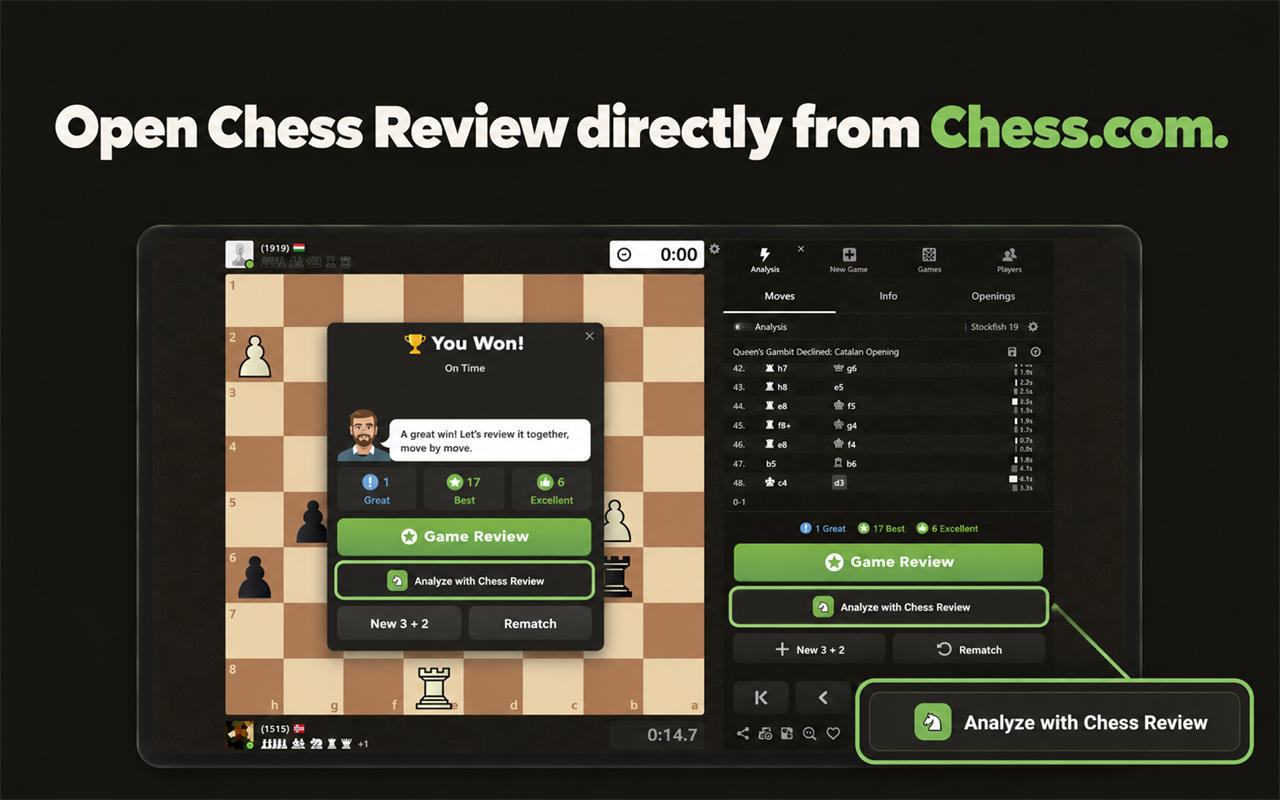
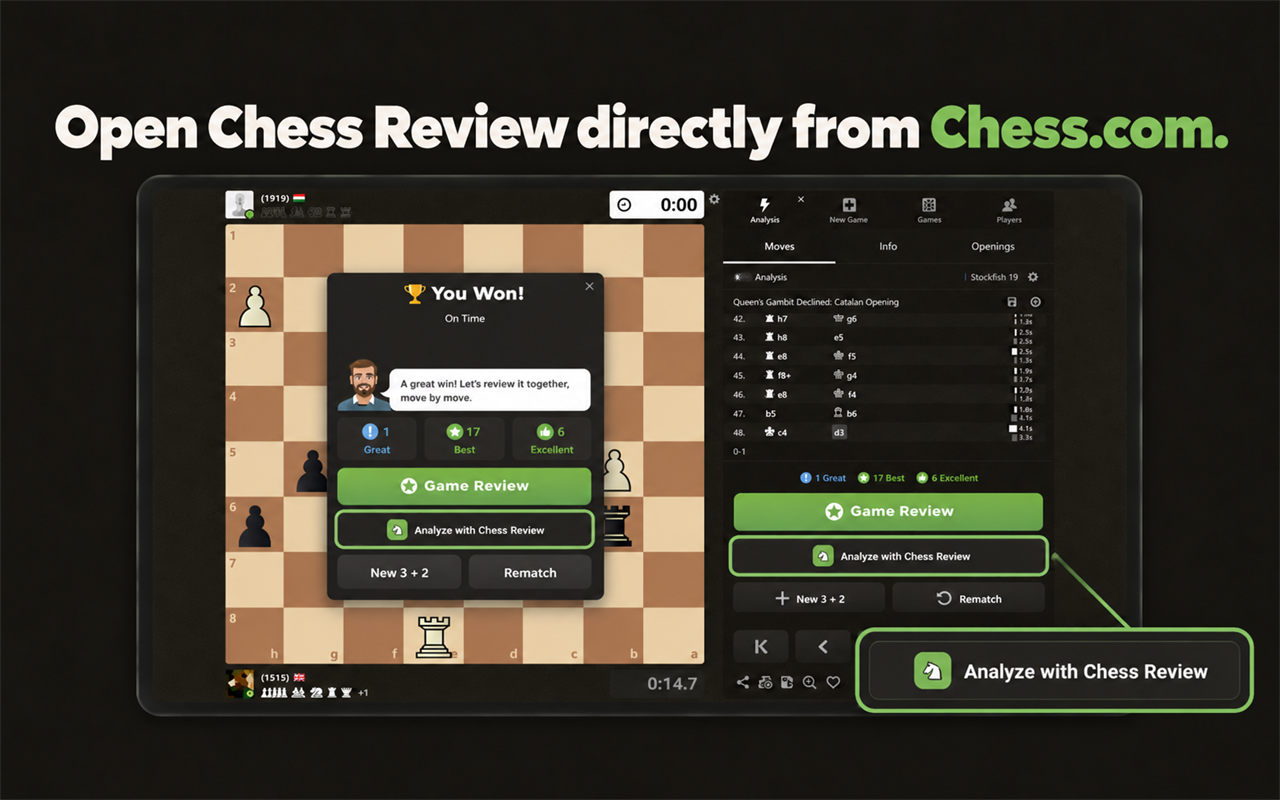
marketing: tighten spacing above store image frames
Move the product groups closer to the existing headlines in five v2 images while preserving the Accuracy and move quality image.

diff --git a/marketing/chrome-web-store/Marketing images v2/README.md b/marketing/chrome-web-store/Marketing images v2/README.md
@@ -77,3 +77,83 @@ Accuracy headline is centered at approximately y67–123. Displayed accuracy val
 Although preservation was explicit in the prompts, generated UI is not guaranteed pixel-identical to the source. Minor raster texture, antialiasing and small type rendering changes are visible, especially puzzle board shading and tiny labels. Final resampling also changes pixels. Background and headline colors are visual matches to the reference rather than guaranteed uniform exact RGB fills.
 
 No staging or commits performed by this subagent; root agent handles the cohesive task commit.
+
+## Layout follow-up: reduce headline-to-product gaps
+
[1 lines of base64/hex data omitted]
+
+| Export | Previous group top | Revised group top | Approximate upward move |
+| --- | --- | --- | --- |
+| whole-game-review.png | 230 px | 175 px | 55 px |
+| chess-com-one-click-review.png | 225 px | 175 px | 50 px |
+| lichess-one-click-review.png | 225 px | 175 px | 50 px |
+| ten-chess-coaches.png | 208 px | 183 px | 25 px |
+| fifty-thousand-chess-puzzles.png | 221 px | 179 px | 42 px |
+
+Reviewed all five final images visually, verified all six exports decode at 1280 x 800, and checked the overview board after removing an extra selected-square highlight introduced during editing. Exact coordinates and fine raster details can vary with imagegen. Original source images remain unchanged.
+
+### Layout edit prompts and method
+
+### Overview/coaches layout revision
+
+Method: inspected both approved v2 files, then used built-in image_gen edits only. First pass overshot upward (overview top ~164, grid ~155). One targeted correction per file was approved by root. Selected tool outputs were 1586x992; System.Drawing HighQualityBicubic normalized final export only to 1280x800. Replaced only whole-game-review.png and ten-chess-coaches.png. No staging/commits. Sources remain in previous Git commit.
+
+Review: final exports inspected with view_image. Overview frame top ~175, bottom ~707; coaches grid top ~183, bottom ~648. Headline positions/colors/type visually unchanged. Requested targets were ~185/~173, so final translations are approximate (overview ~55px up; coaches ~25px up). All ten name labels remain correct; full board/frame and 2x5 grid preserved. Imagegen can produce small face/UI/text detail drift and does not guarantee pixel-identical rigid translation. Existing backdrop remains visually consistent.
+
+## Exact prompts
+
+### Overview initial
+Use case: precise-object-edit. Edit the supplied current approved marketing image. Final 1280x800. Perform ONLY a layout translation: move the ENTIRE main rounded rectangular product screenshot group UPWARD by exactly 45 px, from its current top edge y230 to top edge y185, current bottom y762 to y717. Preserve its x position, width and height exactly (left x131, right x1148), no scaling, no cropping, no redesign. Treat every pixel inside this rounded screenshot frame as one locked group: preserve all chess pieces and board position, arrow, coach illustration, texts, stats, charts, icons, button controls and borders with their same internal relative positions. Keep the headline 'Your whole game, reviewed in one view' EXACTLY unchanged in its current location, font, letter sizes, alignment and white/green colors. Do not move the headline. Preserve the existing warm near-black charcoal subtly textured backdrop throughout. Seamlessly fill only the newly exposed bottom region with that same background. No additional text, branding or new elements. The sole requested change is rigidly translating the existing screenshot box 45px upward to reduce the gap below the headline. Preserve all original visual details rather than redraw.
+
+### Coaches initial
+Use case: precise-object-edit. Edit supplied current approved coaches marketing image, final 1280x800. Perform ONLY a layout translation: move ENTIRE 2-row by 5-column grid of ten coach cards UPWARD by exactly 35px, from current top y208 to target top y173, current grid bottom y673 to y638. Treat all ten cards and spaces between them as one locked group; preserve x positions, original widths and heights, inter-card spacing and internal relative positions; do NOT scale, crop, redraw or redesign. Preserve every illustration detail, accessory, face, clothing, green rounded card border, and all exact name labels: Old Soviet, Professor, Chess Hustler, Wise Grandma, Drunk Uncle, Conspiracy Theorist, Kid Prodigy, Ralph, Julie, Nature Documentarian. Keep the headline 'Choose between 10 different coaches' EXACTLY unchanged in its existing position, heavy geometric font, letter sizes, alignment, off-white color and green 10. Do not move headline. Preserve warm charcoal subtly textured backdrop; seamlessly fill newly exposed lower region with that same backdrop. No additional text, subtitles, branding or new elements. Sole change is rigidly translating existing complete two-row card grid 35px upward to reduce gap beneath headline.
+
+### Overview correction
+Precise-object-edit, 1280x800. Make one small correction to THIS image: move the existing complete rounded screenshot box DOWNWARD by 21px, keeping x position and size identical. Its top edge currently y164; corrected top MUST be y185, bottom y717, left x131 right1148. This creates roughly 30px of clear background below the headline descenders and above the frame. Do NOT move headline or change any text/style/color. Keep headline 'Your whole game, reviewed in one view' exactly fixed, all letter positions preserved. The screenshot including everything inside it is a locked rigid group, translate only: preserve chessboard/pieces/arrow, coach, stats, engine text, controls and borders. Fill exposed top strip seamlessly with existing background and keep entire warm charcoal backdrop identical. No scaling, no cropping, no redesign, no added elements. Only change: shift screenshot group 21px DOWN from current version.
+
+### Coaches correction
+Precise-object-edit, final1280x800. Make ONE small layout correction to THIS image: move entire existing 2-row by 5-column coaches card grid DOWNWARD by 18px. Current top edge y155 must become y173; bottom y620 becomes y638. Keep all original x positions, widths, heights, spaces and relative positions unchanged. This leaves about30px blank background below headline and above card borders. Headline 'Choose between 10 different coaches' must stay EXACTLY fixed in current location, letter sizes/typography/colors/alignment unchanged. The ten cards are a locked rigid group: translate only, do not redraw any faces, clothing, accessories, illustrations, borders or name labels. Keep all ten exact names. Seamlessly fill newly exposed thin top strip with identical existing warm charcoal subtle texture. No scaling, no cropping, no redesign, no extra text or branding. Sole requested change is moving this existing complete grid 18px DOWNWARD.
+
+## Final board correction
+Root requested removing extra b1 yellow highlight while retaining d2 knight/selected-square/badge. Reload confirmed d2 knight had remained present. One built-in imagegen correction used current moved-layout overview as edit target plus original1(1) as board-content-only reference. Corrected b1 to an ordinary unselected light board square (matching checkerboard parity); preserved white knight on yellow d2 and4.1 badge. Final overview was export-normalized to1280x800 and inspected; full piece placement checked against original. Top frame remains ~175. Coaches unchanged.
+
+Exact correction prompt:
+Precise-object-edit. Image1 is CURRENT EDIT TARGET at1280x800; Image2 is BOARD CONTENT REFERENCE ONLY, not layout/branding reference. Make ONE tiny correction on Image1 chessboard: erroneous bright yellow EMPTY b1 square, bottom row second square from left, x306–363 y613–670, must become ordinary medium brown exactly like other dark squares and like b1 in Image2. Keep b1 EMPTY. IMPORTANT preserve WHITE KNIGHT on d2 exactly, at fourth column from left/second row from bottom x422–479 y555–613, and preserve d2 YELLOW selected square and nearby yellow4.1 rating badge. Final sole yellow highlighted board square must be d2, under white knight. Every piece must match Image2: black Ra8 Rh8 Qd8 Ke8 Nd7 Nf6 Bd6, black pawns a7 b7 c7 f7 g7 e6 g6 d5; white Ra1 Rh1 Qd1 Ke1 Nd2 Bd3 Bg3, white pawns a2 b2 c2 f2 g2 h2 d4 e3. Preserve all other board squares/pieces, arrow, UI, coach, labels and all entire screenshot and header content unchanged. Keep Image1 current frame top y175, fixed headline position/type/colors, screenshot size/x position, backdrop. Never copy source Image2 branding, subtitle or layout. Do not move or resize anything. Only repaint b1 normal brown, keeping source-correct knight d2 on yellow and4.1 badge.
+
+
+### Entry-point frame spacing adjustment
+
+Method: built-in image_gen raster editing, supplied current v2 image as sole edit target, inspected before editing. Only final native-output-to-1280x800 normalization used System.Drawing high-quality bicubic resampling. Both selected native outputs were 1586x992. No CLI/API fallback, Python, content transforms, source-original changes, staging, commits, or shared README edits.
+
+Updated existing outputs:
+- chess-com-one-click-review.png
+- lichess-one-click-review.png
+
+Review: both final PNGs visually inspected at 1280x800. Frame tops now approximately y175 (previously y225), moving entire assembly about 50 px upward. This is about 10 px farther upward than the requested approximate y185 target. Headline locations, exact wording, sizes and colors appear preserved. Visible gap from lowest headline glyphs to frame is now about 12–20 px, instead of about 65–75 px. Frame width and height, screenshot/callout arrangement, chess positions, and internal logos remain visually consistent. New bottom area is seamlessly filled with existing warm charcoal background. Imagegen resynthesizes raster content, so tiny UI text/pixels are not guaranteed bit-identical.
+
+Chess.com first generation was rejected because it shifted headline and put frame around y161. One targeted retry corrected headline and yielded selected y175 layout. Lichess needed one generation. No additional retries.
+
+Selected Chess.com exact prompt:
+Precise minimal layout edit of the supplied 1280×800 raster. Use supplied image as actual EDIT TARGET. LOCK THE TOP 180 PIXELS: headline and background from y0 through y179 must remain EXACTLY as input, same coordinates, glyph shapes, type size, colors, wording. Headline begins about y104 and ends y153; never shift it. The ONLY edit is to translate the whole lower screenshot assembly straight upward by 40 px: outer rounded frame top y225 -> y185, bottom y766 -> y726. No scaling: outer frame retains same x137 to x1141 width and same 541 px height. Keep all screenshot pixels/UI geometry, board pieces, modal, borders, arrow, and green zoom callout together as ONE intact group. Zoom callout x856–1253 y680–765 becomes x856–1253 y640–725. Keep its width/height unchanged. Fill exposed bottom area y726–799 seamlessly using original near-black textured background. Do NOT move headline. Do NOT enlarge screenshot. Do NOT recompose. Do NOT change UI or branding. Only translation of lower screenshot group up 40 pixels. Output single final 1280×800 image with top frame at y185, not y160.
+
+Lichess exact prompt:
+Precise minimal layout edit of supplied 1280×800 raster. Supplied image is actual EDIT TARGET. LOCK THE TOP 180 PIXELS: headline and background from y0 through y179 must remain EXACTLY as input, same coordinates, glyph shapes, type size, colors and wording. Headline begins about y104 and ends y153; never shift it. The ONLY edit: translate whole lower screenshot assembly straight upward by 40 px: outer rounded frame top y225 -> y185, bottom y766 -> y726. No scaling: outer frame retains x137 to x1141 width and same 541 px height. Preserve all genuine screenshot/UI geometry and text, board pieces, lichess logo, borders, green arrow and green zoom callout together as ONE intact group. Zoom callout x915–1258 y685–764 becomes x915–1258 y645–724. Same width/height unchanged. Fill exposed bottom area y726–799 seamlessly using original near-black textured background. Do NOT move headline. Do NOT enlarge screenshot. Do NOT recompose. Do NOT change UI or branding. Only translation of lower screenshot group up 40 pixels. Single final 1280×800 image, top frame y185. Preserve exact headline 'Open Chess Review directly from Lichess.' at original location.
+
+
+### Puzzle frame layout follow-up
+
+Edited only `fifty-thousand-chess-puzzles.png` using built-in `image_gen.imagegen` from the approved v2 image. One generation; no further regeneration. Generated file: `C:/Users/thoma/.codex/generated_images/01a1800a-4d9c-70c3-ad88-c70174d1b689/exec-cc920824-4cc4-416f-a86c-f4ec4de1525c.png`.
+
+Exact prompt:
+
+> Use case: precise-object-edit. The supplied image is the edit target. Make exactly ONE spatial translation, no redesign: move the entire large lower rounded rectangular screenshot frame UP 36 pixels on the final 1280×800 canvas, from its current top y221 to target y185. Preserve its exact existing size: x115–1138, width1023, height534; only its y coordinate changes, so new bottom is approximately719. Treat the frame and ALL of its contents as ONE intact raster unit: exact authentic complete chessboard, every starting-position chess piece, board coordinates, modes cards, settings, all labels, buttons, numbers, icons, scrollbar, subtle background and rounded border. Preserve sharpness and original appearance; do not scale, crop, reinterpret or redraw UI. Keep the headline '50,000 puzzles. All yours.' absolutely unchanged at its current x/y position, size, geometric sans type, green/off-white colors and spacing. Keep the original charcoal textured background color/style untouched outside the moved card; seamlessly fill only the newly exposed bottom strip using this same background. Do not move headline. No new copy, logos or subtitles. Output a single1280×800 landscape PNG, same composition with only frame translated upward36px. Key spacing: headline glyph bottom about y150; frame top y185, giving35px clear gap.
+
+The built-in result was 1586×992 and was normalized once to 1280×800 using Windows System.Drawing HighQualityBicubic export, without cropping or content redraw. Both generated and delivered images were inspected visually.
+
+Achieved frame bounds approximately x115–1138, y179–712: an upward movement of approximately42px (6px beyond target), with frame size essentially preserved. Headline remains in its prior position; main letter bodies end around y150, while descenders extend around y165. Minimum clear gap to frame is therefore approximately14px; gap from the headline main baseline/body is approximately29px. No overlap or visual defect warranted another generation.
+
+Complete starting-position board, mode cards, settings and visible puzzle type rows remain present. Background fills the exposed bottom area seamlessly. As with imagegen editing, minor raster/antialiasing/small-type differences can occur, so this is visually preserved content rather than guaranteed pixel-identical screenshot translation.
+
[1 lines of base64/hex data omitted]
+
+No staging, commits or shared README changes were made by this subagent.
